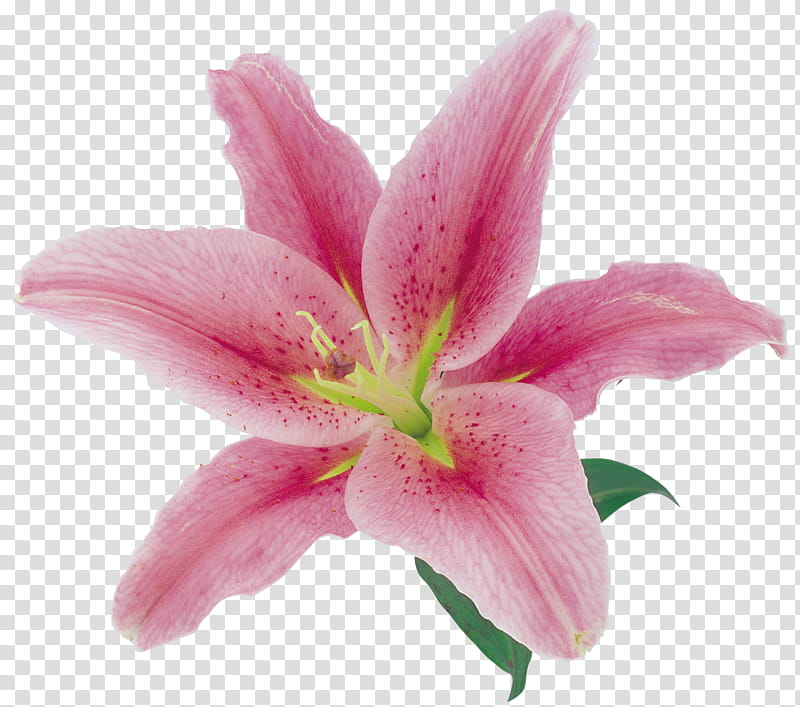
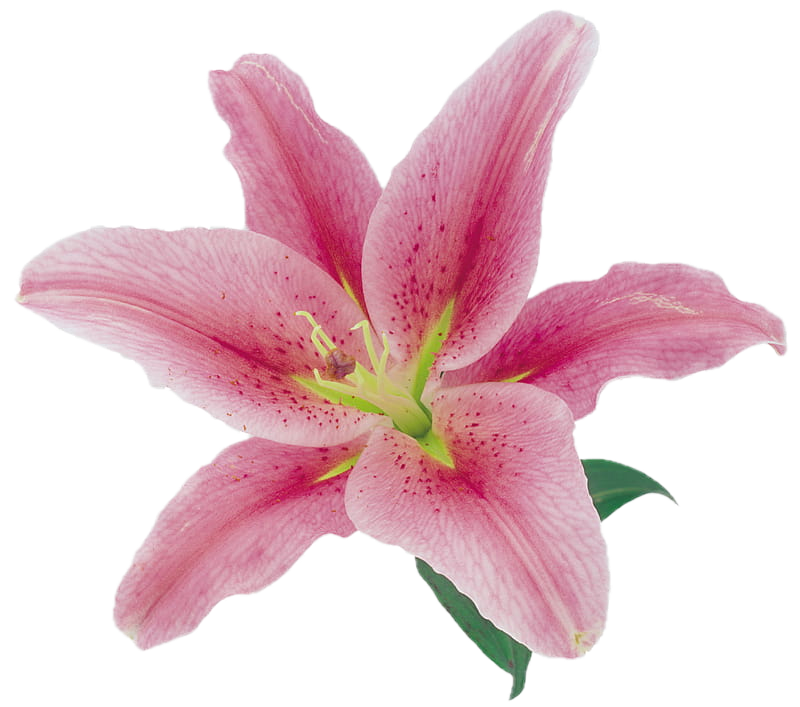
Refine memory book copy

Changed region(s): [[0.0, 0.0, 1.0, 1.0]]

diff --git a/app/page.tsx b/app/page.tsx
@@ -18,7 +18,7 @@ export default function Home() {
       <Reveal className="relative z-10 max-w-2xl text-center"><Lily className="mx-auto mb-8" size={124}/><p className="mb-6 text-[10px] uppercase tracking-[.3em] text-[#9e846f]">A little date, from Vellore to Mumbai</p><h1 className="serif text-6xl leading-none sm:text-8xl">Hi Aru <span className="text-[#c98e84]">♥</span></h1><p className="mx-auto mt-9 max-w-md whitespace-pre-line text-[15px] leading-8 text-[#657067]">I know you haven&apos;t been having the easiest few rollercoaster days.{`\n\n`}I wish I were there to hug you.{`\n\n`}Since I can&apos;t...{`\n\n`}I thought I&apos;d bring a few memories to you instead.</p><button onClick={() => { setEntered(true); document.getElementById('memories')?.scrollIntoView({ behavior: 'smooth' }); }} className="mt-10 inline-flex min-h-11 items-center gap-2 rounded-full border border-[#cbb29a] bg-white/60 px-7 py-3 text-sm text-[#556154] shadow-sm"><span>Let&apos;s go on another date</span><Lily size={20}/></button></Reveal>
     </section>
     <motion.div id="memories" initial={{ opacity: 0 }} animate={{ opacity: entered ? 1 : .72 }} transition={{ duration: .65 }}>
-      <section className="px-5 py-24 sm:px-6"><Heading eyebrow="A timeline of us" title="From respect button to love button" copy="Each story is a memory of how our love grew — and will continue to grow forever."/><div className="relative mx-auto mt-16 max-w-5xl"><div className="timeline-line absolute bottom-8 left-3 top-8 w-px md:left-1/2"/>{memories.map((memory, index) => <Reveal key={memory.title} className={`relative mb-20 ml-8 flex flex-col gap-5 md:mb-28 md:ml-0 md:w-[calc(50%-2.5rem)] ${index % 2 ? 'md:ml-[calc(50%+2.5rem)]' : ''}`}><span className="absolute -left-[29px] top-8 h-3 w-3 rounded-full border-2 border-[#fcfaf5] bg-[#c99688]"/><div className="relative aspect-[4/3] overflow-hidden rounded-[1.35rem] bg-[#e8e1d7]"><img src={memory.image} alt={memory.title} loading={index < 2 ? 'eager' : 'lazy'} className="h-full w-full object-contain object-center"/></div><article className="glass rounded-[1.5rem] p-6"><p className="text-[10px] uppercase tracking-[.2em] text-[#a48870]">{memory.date}</p><h3 className="serif mt-3 text-4xl leading-none">{memory.title}</h3><p className="mt-5 text-sm leading-7 text-[#667166]">{memory.story}</p><p className="serif mt-5 border-l border-[#d6b7ad] pl-4 text-lg italic text-[#788274]">“{memory.quote}”</p></article></Reveal>)}</div></section>
+      <section className="px-5 py-24 sm:px-6"><Heading eyebrow="A timeline of us" title="From respect button to love button" copy="Each story is a memory of how our love grew and will continue to grow forever."/><div className="relative mx-auto mt-16 max-w-5xl"><div className="timeline-line absolute bottom-8 left-3 top-8 w-px md:left-1/2"/>{memories.map((memory, index) => <Reveal key={memory.title} className={`relative mb-20 ml-8 flex flex-col gap-5 md:mb-28 md:ml-0 md:w-[calc(50%-2.5rem)] ${index % 2 ? 'md:ml-[calc(50%+2.5rem)]' : ''}`}><span className="absolute -left-[29px] top-8 h-3 w-3 rounded-full border-2 border-[#fcfaf5] bg-[#c99688]"/><div className="relative aspect-[4/3] overflow-hidden rounded-[1.35rem] bg-[#e8e1d7]"><img src={memory.image} alt={memory.title} loading={index < 2 ? 'eager' : 'lazy'} className="h-full w-full object-contain object-center"/></div><article className="glass rounded-[1.5rem] p-6"><p className="text-[10px] uppercase tracking-[.2em] text-[#a48870]">{memory.date}</p><h3 className="serif mt-3 text-4xl leading-none">{memory.title}</h3><p className="mt-5 text-sm leading-7 text-[#667166]">{memory.story}</p><p className="serif mt-5 border-l border-[#d6b7ad] pl-4 text-lg italic text-[#788274]">“{memory.quote}”</p></article></Reveal>)}</div></section>
       <section className="px-5 py-28 text-center"><Lily className="mx-auto mb-7" size={76}/><Heading eyebrow="There is so much ahead" title="Our story isn&apos;t finished."/><p className="mx-auto mt-7 max-w-md text-sm leading-7 text-[#677168]">This isn&apos;t completed yet — it&apos;s only the beginning. There will be many more versions of this page, so don&apos;t worry.</p><p className="mt-8 text-sm tracking-[.1em] text-[#748074]">Many more memories loading<span className="inline-block w-7 animate-pulse">...</span></p></section>
       <footer className="bg-[#405044] px-5 py-24 text-center text-[#f7f1e9]"><p className="serif mx-auto max-w-xl text-4xl leading-tight sm:text-5xl">No matter how many kilometres separate us...<br/>You&apos;ll always have a home in my heart.</p><p className="mt-10 text-2xl text-[#efc8c1]">♥</p><p className="mt-4 text-xs tracking-[.2em] text-[#d6ded4]">— VISHWA</p></footer>
     </motion.div>